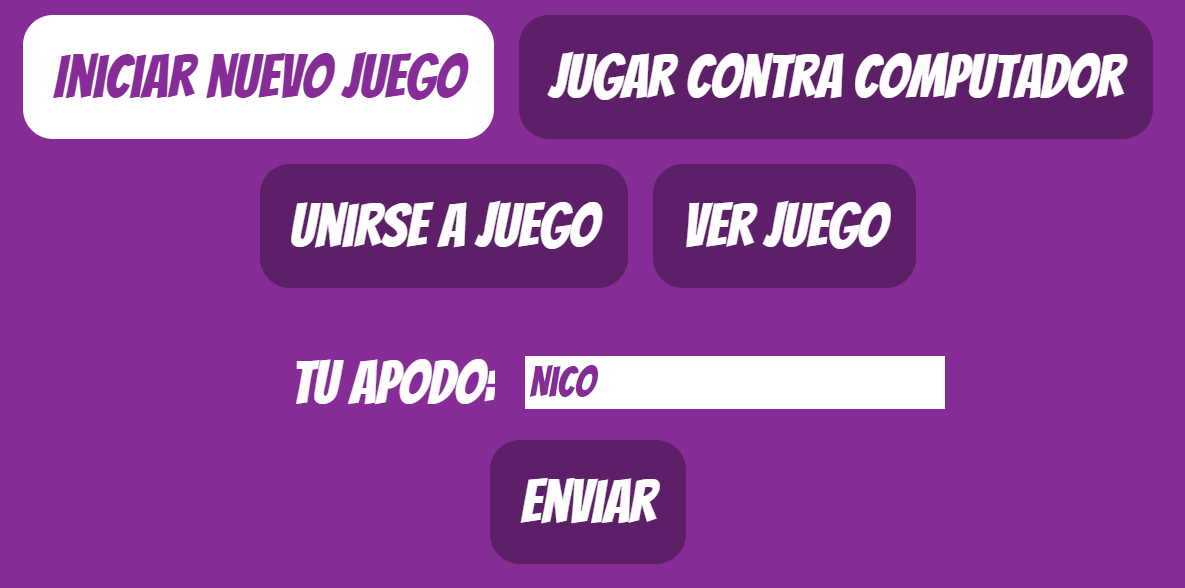
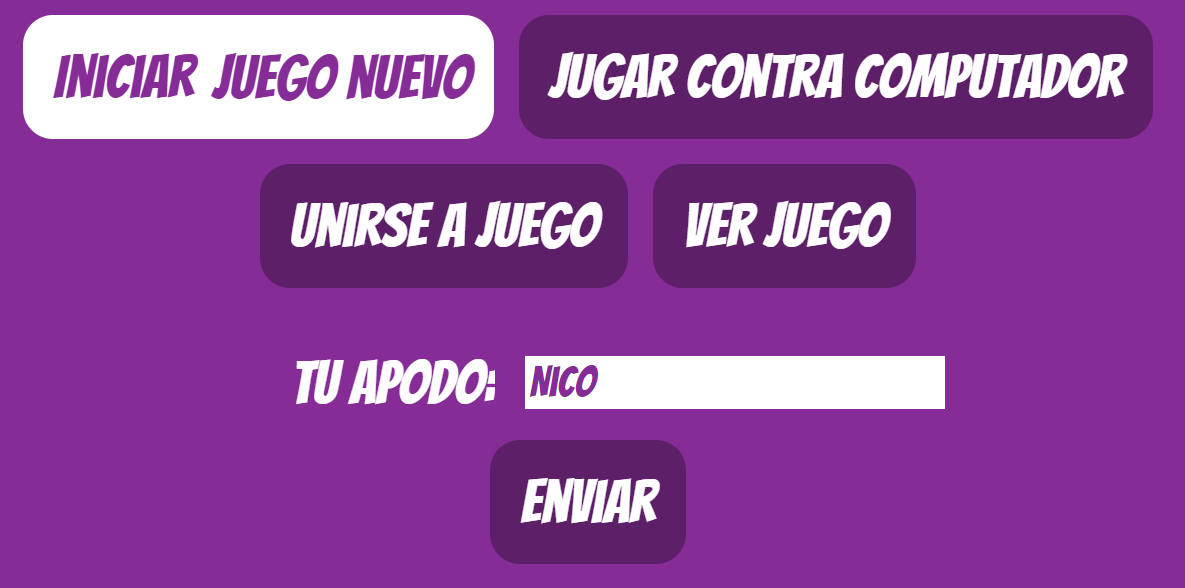
spanish rules wip

Changed region(s): [[0.1561, 0.0918, 0.4059, 0.1837]]

diff --git a/public/howToPlayEs.html b/public/howToPlayEs.html
@@ -13,33 +13,32 @@
 <body>
 	<div id="contentWrapper">
 		<h1>6 Nimmt!</h1>
-		<h2>C&#243mo Preparar Un Juego</h2>
-		<p>From the home page, one player will select "New Game" and enter a nickname for themselves.</p>
+		<h2>Cómo Preparar Un Juego</h2>
+		<p>Desde la página de inicio, un jugador debe seleccionar "Iniciar Juego Nuevo", y elegir un apodo.</p>
 		<img src="img/howToSetUp1Es.png" width="560" height="280">
-		<p>They will be assigned a game code which they can share with their friends. Artificial players can also be added from this page.</p>
+		<p>Un código de juego será asignado para compartir con otros jugadores. Desde esta página también se pueden agregar jugadores artificiales.</p>
 		<img src="img/howToSetUp2Es.png" width="560" height="370">
-		<p>Other players can join the game by selecting "Join Game" from the home page and entering the game code.</p>
+		<p>Otros jugadores pueden utilizar el código para unirse al juego desde la página de inicio.</p>
 
-		<h2>Game Rules</h2>
-		<p>The game is played with a special card deck. There are 104 cards numbered 1-104. Each card has a number of cattle heads on it.</p>
+		<h2>Reglas</h2>
+		<p>Se utiliza una baraja especial. Hay 104 cartas enumeradas de 1 a 104. Cada carta tiene un numero de cabezas de ganado.</p>
 		<img src="img/cardsExample.png" width="560" height="150">
-		<p>Each cattle head is a point, and the goal is be the player who ends up with the fewest points.</p>
-		<p>Note: Points are collected by having to pick up cards according to the rules below. Not by counting the cattle left in your hand at the end of the game.</p>
+		<p>Cada cabeza de ganado es un punto, y el objetivo del juego es ser el jugador con menos puntos al final del juego.</p>
+		<p>Nota: Los puntos que tengas en tu mano no importan, los puntos que cuentan son los de las cartas que te toque "comer" de acuerdo a las siguientes reglas.</p>
 
-		<h3>Setup</h3>
-		<p>Each player will be given 10 cards. 4 cards are placed on the table in a vertical line from smallest to largest.</p>
-		<p>The table looks like this:</p>
+		<h3>Preparación</h3>
+		<p>Cada jugador recibirá 10 cartas, y 4 cartas se pondrán sobre la mesa verticalmente de menor a mayor.</p>
+		<p>Así se ve la mesa:</p>
 		<img src="img/table.png" width="560" height="320">
 		<p>The white spaces on the right are where the cards played each round will go.</p>
-		<p>Your hand looks like this:</p>
+		<p>Así se ve una mano:</p>
 		<img src="img/handEs.png" width="560" height="273">
-		<p>Swipe left and right to switch between the table and your hand.</p>
+		<p>Desliza a la izquierda/derecha para cambiar entre la mesa y tu mano.</p>
 
-		<h3>Gameplay</h3>
-		<p>At each turn, each player selects a card from their hand to play.</p>
-		<p>When every player has played a card, the cards are uncovered.</p>
-		<p>The cards will be played from smallest to largest.</p>
-		<p>Cards are played according to the folllowing rules:</p>
+		<h3>Juego</h3>
+		<p>Al comienzo de cada turno, cada jugador elige una carta de su mano.</p>
+		<p>Cuando todos hayan elegido una carta, las cartas se destapan.</p>
+		<p>Se empieza por la que tiene el número más bajo y se coloca en una de las 4 filas. Hay unas reglas fijadas que determinan en qué fila tiene que ir la carta, así que el jugador no puede elegir dónde ponerla, sino que está obligado a colocarla en una fila en concreto. Las reglas son: </p>
 		<ul>
 			<li>A card will be placed on the row where the played card is larger than the last card on that row, but smaller than the last card on the next row.</li>
 			<img src="img/howToPlaceCards.png" width="560" height="380">

diff --git a/public/js/setup/translator.js b/public/js/setup/translator.js
@@ -116,18 +116,18 @@ function translateToSpanish()
 	bSpanish = true;
 	
 	// home
-	$('#howToPlay')[0].innerHTML = "C&#243mo Jugar";
+	$('#howToPlay')[0].innerHTML = "Cómo Jugar";
 	$('#howToPlay').attr("href", "howToPlayEs.html");
 	$('#about')[0].innerHTML = "Acerca De...";
 	$('#about').attr("href", "aboutEs.html");
 
-	$('#newGame')[0].innerHTML = "Iniciar nuevo juego";
+	$('#newGame')[0].innerHTML = "Iniciar juego nuevo";
 	$('#vsAI')[0].innerHTML = "Jugar contra computador";
 	$('#joinGame')[0].innerHTML = "Unirse a juego";
 	$('#spectateGame')[0].innerHTML = "Ver juego";
 
 	$('#nickNamePrompt')[0].innerHTML = "Tu apodo:";
-	$('#codePrompt')[0].innerHTML = "C&#243digo del juego:";
+	$('#codePrompt')[0].innerHTML = "Código del juego:";
 
 	$('#nickNameError')[0].innerHTML = "Ese apodo no esta disponible o es invalido.<br>Elige un apodo alfanumerico con 1-6 caracteres.";
 	$('#codeError')[0].innerHTML = "Ese codigo no corresponde a un juego activo.";
@@ -137,12 +137,12 @@ function translateToSpanish()
 	$('#submitButton')[0].innerHTML = "Enviar";
 	
 	// wait
-	$('#theCodeIs')[0].innerHTML = "El c&#243digo del juego es";
+	$('#theCodeIs')[0].innerHTML = "El código del juego es";
 	$('#playerAllowance')[0].innerHTML = "2-10 jugadores permitidos";
 	$('#endGameBtn')[0].innerHTML = "Terminar juego";
 	$('#quitGameBtn')[0].innerHTML = "Salir";
 	$('#startGameBtn')[0].innerHTML = "Comenzar con estos jugadores";
-	$("#needMorePlayers")[0].innerHTML = "Se necesitan m&#225s jugadores";
+	$("#needMorePlayers")[0].innerHTML = "Se necesitan más jugadores";
 	$('#addAIBtn')[0].innerHTML = "Agregar jugador artificial";
 	
 	// game
@@ -189,5 +189,5 @@ function translateToSpanish()
 
 	youGotKickedOutStr = "Te demoraste demasiado en responder y te han sacado del juego.";
 
-	initialInstructionsStr = "Durante el juego, por favor no minimizes esta ventana o abras otras ventanas. Puedes perder conecci&#243n al servidor";
+	initialInstructionsStr = "Durante el juego, por favor no minimizes esta ventana o abras otras ventanas. Puedes perder conección al servidor";
 }

diff --git a/public/howToPlayEn.html b/public/howToPlayEn.html
@@ -27,7 +27,7 @@
 		<p>Note: Points are collected by having to pick up cards according to the rules below. Not by counting the cattle left in your hand at the end of the game.</p>
 
 		<h3>Setup</h3>
-		<p>Each player will be given 10 cards. 4 cards are placed on the table in a vertical line from smallest to largest.</p>
+		<p>Each player will be given 10 cards, and 4 cards are placed on the table in a vertical line from smallest to largest.</p>
 		<p>The table looks like this:</p>
 		<img src="img/table.png" width="560" height="320">
 		<p>The white spaces on the right are where the cards played each round will go.</p>
